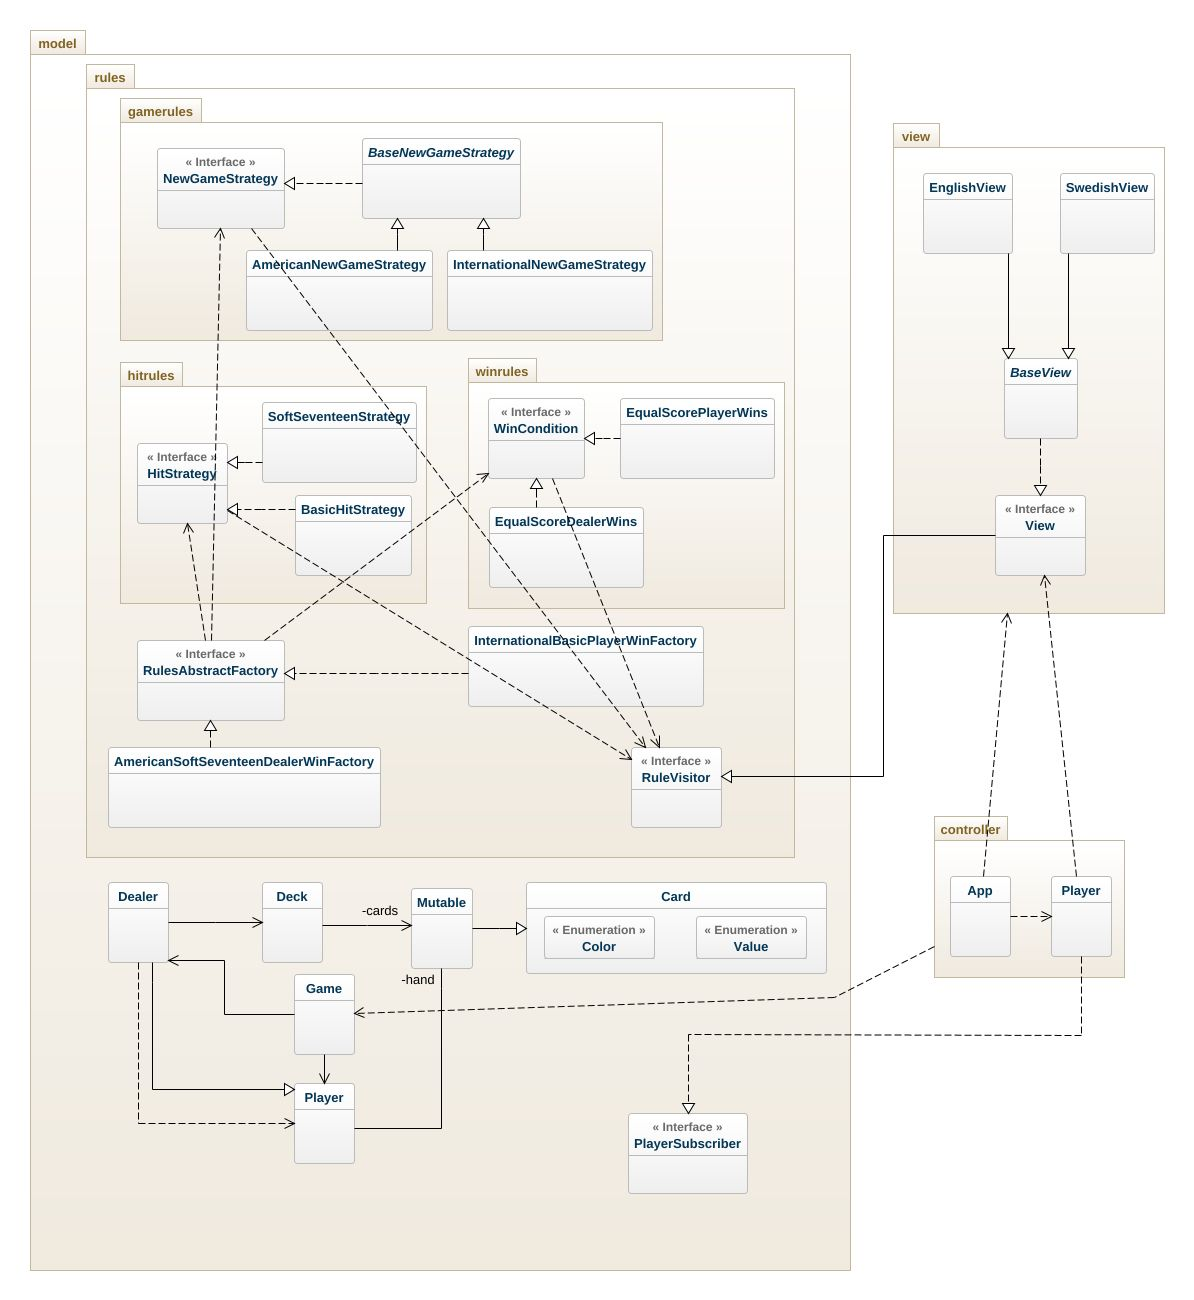
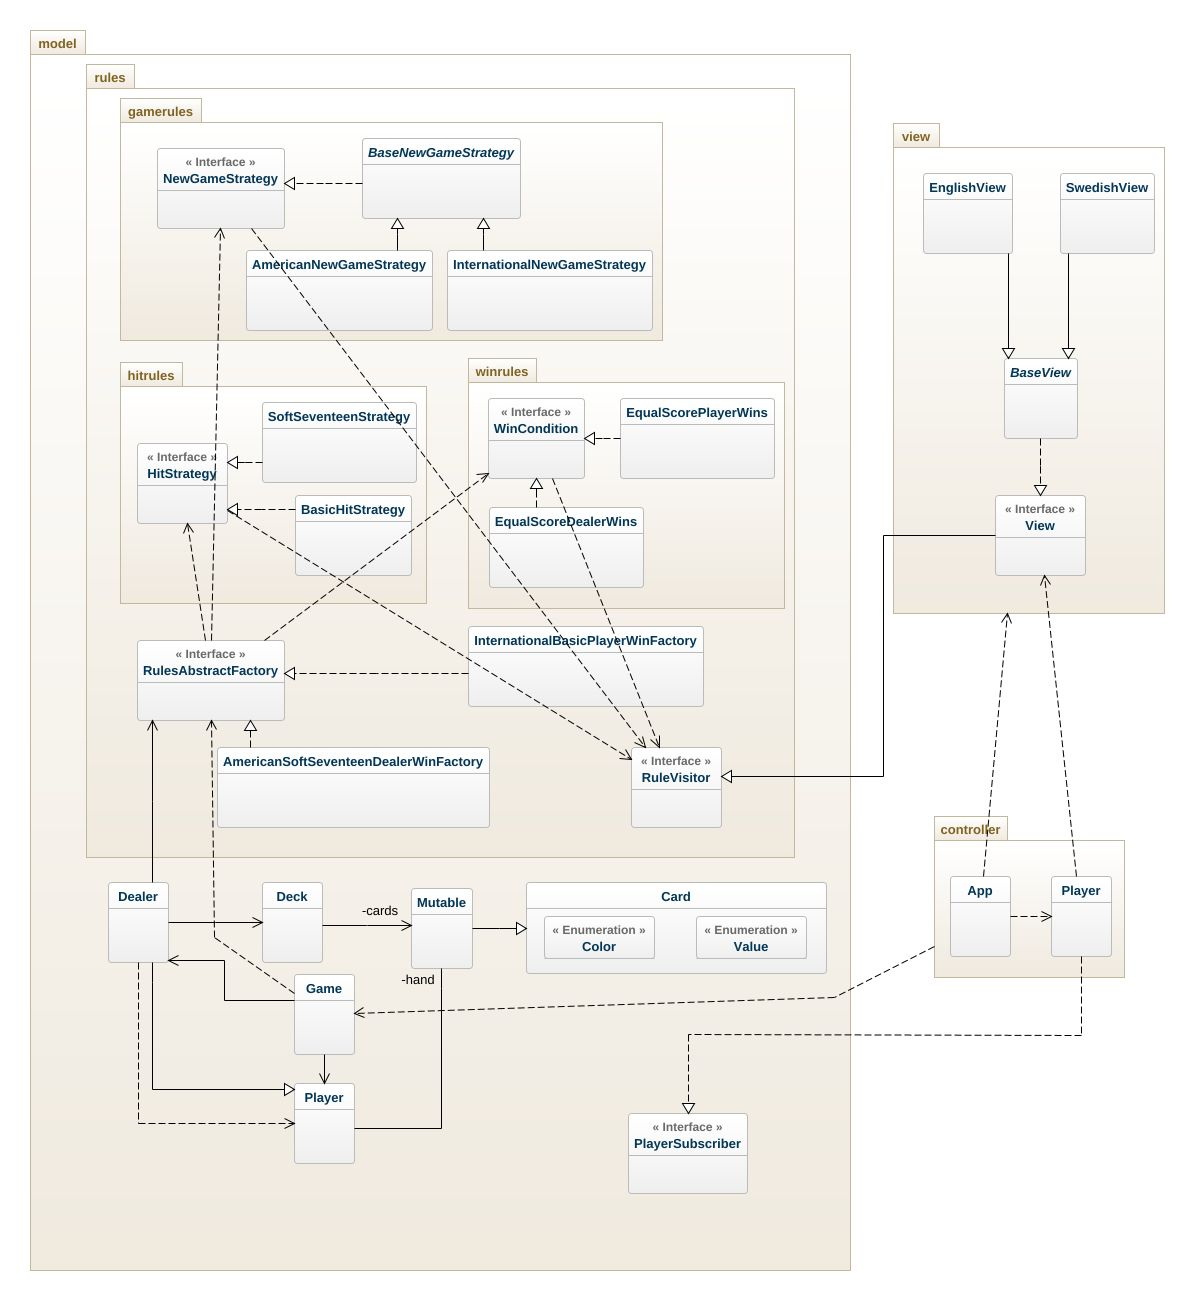
Update README

Changed region(s): [[0.093, 0.5538, 0.4028, 0.6154]]

diff --git a/README.md b/README.md
@@ -24,4 +24,10 @@ After all the cards have finished being drawn, the whole game state is printed o
 Group members:
 - Anna Manole
 
-I implemented an AbstractRuleFactory to create different combinations of rules for the game. Total of 8 different combinations are possible (3 rule types with 2 possible choices each - 2 x 2 x 2). 
+I implemented a RuleAbstractFactory class to create different combinations of rules for the game. Total of 8 different combinations are possible (3 rule types with 2 possible choices each - 2 x 2 x 2). Only 2 of these combinations are implemented in the game, but the rest can also be creating by combining the different rules. The Game class is parameterized with the RuleAbstractFactory class, so that the rules can be changed at runtime.
+
+The design pattern visitor was used in order to print what rules are used at the start of the game. The interface RuleVisitor visits all the different types of rules. They accept the visitor, as well as the Dealer class, that creates the rules still.
+
+The View interface extents the RuleVisitor interface, so that the view can also print out the rules that are used in the game, by defining abstract methods in the BaseView superclass. The SwedishView and EnglishView classes implement these methods, as well as other abstract methods to suit the language needs.
+
+Some of the arrows in the UML diagram that go from Dealer have been ommitted (associations with the different interfaces for rules).
